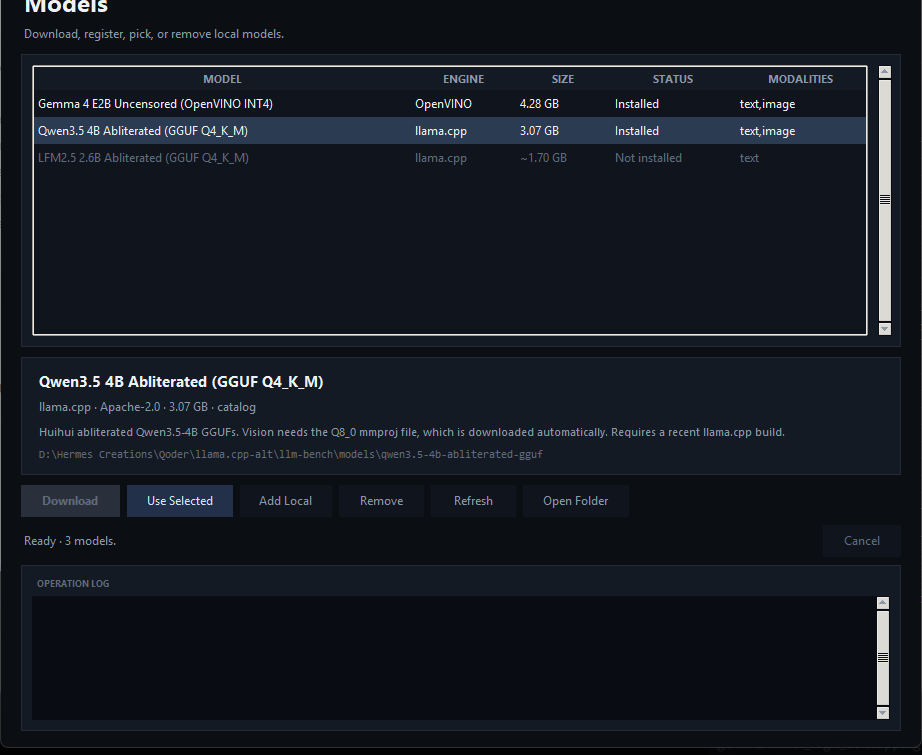
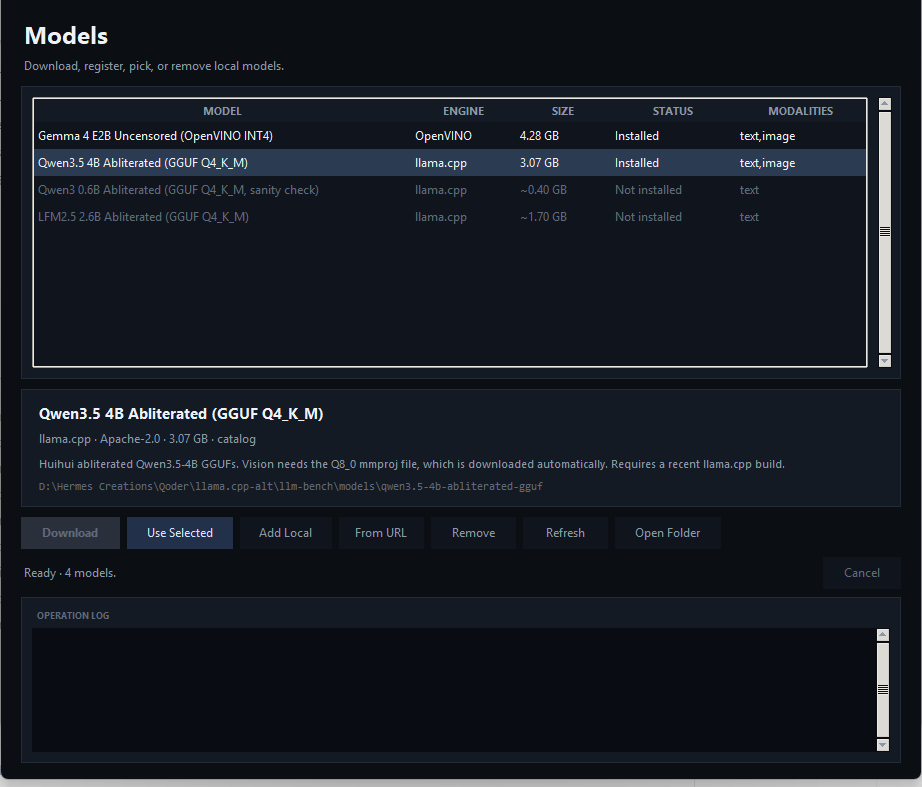
Refresh README for portable installer and current features
Clarify standalone versus project-root launchers, remove the outdated
no-GUI limitation, document auto-tune, URL downloads, image-model scope,
and update the UI screenshots.

diff --git a/README.md b/README.md
@@ -1,8 +1,8 @@
 # LocalForge
 
 LocalForge is a Windows desktop app, CLI, and local OpenAI-compatible API for running
-uncensored/abliterated multimodal models. It uses **OpenVINO GenAI** for Gemma 4 E2B and
-**llama.cpp** for abliterated GGUFs.
+uncensored/abliterated multimodal models. It uses **OpenVINO GenAI** for Gemma 4 E2B,
+**llama.cpp** for abliterated GGUFs, and a validated **LiteRT-LM** adapter.
 
 [Latest release](https://github.com/solletravinder/localforge/releases/latest)
 
@@ -12,14 +12,19 @@ Download the latest **`LocalForge-Setup-*.exe`** from the releases page and run 
 needs no Python installation or terminal, and bundles the Python runtime, dependencies, and
 `llama-server.exe`.
 
-The installer is a per-user installation (no admin prompt) and is about 515 MB compressed; the
+The installer is a per-user installation (no admin prompt) and is about 520 MB compressed; the
 installed runtime is about 1.1 GB. It includes an abliterated **Qwen3 0.6B sanity model** at 8K
 context. It is selected automatically on first launch so you can verify the installation
 immediately. Download Qwen3.5 4B from the Models window for the full 131k profile.
 
+The installer does not bundle the SD1.5 image-generation checkpoint. Image generation remains
+available from a source setup or by converting a checkpoint with `lforge convert-image`.
+
 ## Desktop app
 
-Double-click **`LocalForge.exe`** (or the LocalForge desktop shortcut). No terminal is needed.
+Double-click the installed **LocalForge** shortcut. The installer copy is self-contained and
+needs no project folder, `.venv`, or Python installation. A smaller project-root
+`LocalForge.exe` remains available for development from this repository.
 
 ![LocalForge desktop app](assets/screenshot.png)
 
@@ -40,7 +45,7 @@ suggestions fill the llama.cpp fields for review; per-model context overrides st
 
 - **Generation:** max output tokens, temperature, top-p, and thinking mode.
 - **llama.cpp:** context length, GPU layers, batch, ubatch, CPU threads, parallel slots, flash
-  attention, and warmup.
+  attention, and warmup. **Auto-tune from selected GGUF** fills these from the model metadata.
 - **KV cache:** K and V cache types, with the 131k memory trade-off shown inline.
 
 Settings are validated, saved to the LocalForge config, and take effect after Stop and Start.
@@ -57,9 +62,9 @@ Settings are validated, saved to the LocalForge config, and take effect after St
   provider, with resume support. Hugging Face `/blob/` links are converted to `/resolve/`.
 - Removes downloaded models or unregisters local models without deleting their files.
 
-Keep `LocalForge.exe` inside the `local-forge` folder: it uses the existing `.venv` and model
-directories. In Jan, use base URL `http://127.0.0.1:8090/v1`, model
-`qwen3.5-4b-abliterated`, and context `131000`.
+The smaller project-root launcher must stay inside `local-forge` because it uses the existing
+`.venv` and model directories. The installed copy is standalone. In Jan, use base URL
+`http://127.0.0.1:8090/v1`, model `qwen3.5-4b-abliterated`, and context `131000`.
 
 ### Build the desktop EXE or portable installer
 
@@ -108,7 +113,7 @@ Verified on an i5-12450H, 16 GB RAM, Intel UHD Graphics laptop:
 Streaming is supported everywhere: CLI token streaming and SSE streaming through the API, for
 both OpenVINO and llama.cpp models.
 
-## Requirements
+## Requirements (source install)
 
 - Windows 10/11, Python 3.10+
 - Intel CPU or iGPU supported by OpenVINO 2026.4+
@@ -124,8 +129,8 @@ From this folder:
 run.bat setup
 ```
 
-The first run creates `.venv`, installs dependencies, downloads the two remaining text models, and
-installs the photoreal image model (~9.5 GB total). Downloads resume if interrupted; use
+The first run creates `.venv`, installs dependencies, and downloads any missing catalog chat
+models plus the photoreal image model. Expect several GB; downloads resume if interrupted. Use
 `--text-only` or `--image-only` to split them. Then:
 
 ```bat
@@ -155,9 +160,11 @@ lforge models list
 lforge models download gemma4-e2b-uncensored-ov
 lforge models download qwen3.5-4b-abliterated
 lforge models download lfm2.5-2.6b-abliterated
+lforge models inspect "D:\path\model.gguf"
+lforge models download-url "https://huggingface.co/org/repo/resolve/main/model.gguf" --id my-model
 ```
 
-The two GGUF entries are community abliterated builds. If a Hugging Face repository is
+The GGUF entries are community abliterated builds. If a Hugging Face repository is
 unavailable, download the GGUF manually and register it:
 
 ```powershell
@@ -274,10 +281,13 @@ LocalForge fills missing descriptions automatically.
 
 ## Image generation
 
-An SD1.5 image model is configured and working immediately. **`run.bat setup` upgrades it to
-Realistic Vision V6.0 B1**, a photoreal SD1.5 checkpoint exported to OpenVINO FP16. It has no
+For source installations, an SD1.5 image model is configured by **`run.bat setup`**. It installs
+Realistic Vision V6.0 B1, a photoreal SD1.5 checkpoint exported to OpenVINO FP16. It has no
 built-in content filter and is suitable for portrait and boudoir-style photography. Defaults are
 portrait 512×768, 28 steps, guidance 6.5, with a built-in negative prompt.
+
+The portable installer does not include this image checkpoint; it focuses on the chat runtime and
+the bundled sanity model.
 
 ```powershell
 run.bat image "editorial portrait of an adult, soft window light, 85mm lens, natural skin texture"
@@ -326,19 +336,23 @@ faster interactive session, or raise `llama_cache_v` to `q8_0` for maximum cache
 ## How it works
 
 ```text
+desktop.py             Windows desktop control panel
 src/local_forge/
-  api.py              OpenAI-compatible FastAPI server
-  cli.py              lforge commands and interactive chat
-  config.py           JSON config and paths
-  catalog.py          Uncensored model catalog
-  manager.py          Downloads, local imports, status, deletion
-  hardware.py         CPU/RAM/GPU/OpenVINO/llama.cpp detection
-  schemas.py          OpenAI request parsing and image handling
-  tools.py            Gemma tool-call parser and tool-history conversion
+  api.py               OpenAI-compatible FastAPI server
+  cli.py               lforge commands and interactive chat
+  config.py            JSON config and paths
+  catalog.py           Uncensored model catalog
+  manager.py           Downloads, local imports, status, deletion
+  gguf_info.py         GGUF metadata parsing and hybrid-aware recommendations
+  url_download.py      Direct .gguf/.litertlm URL downloads with resume
+  hardware.py          CPU/RAM/GPU/OpenVINO/llama.cpp detection
+  schemas.py           OpenAI request parsing and image handling
+  tools.py             Gemma tool-call parser and tool-history conversion
   engines/
     openvino_engine.py   VLMPipeline, streaming, vision
     llama_cpp_engine.py  llama-server lifecycle and SSE proxy
     image_engine.py      OpenVINO Text2ImagePipeline
+    litert_engine.py     LiteRT Conversation adapter
     manager.py           One-resident-model policy
 ```
 
@@ -380,9 +394,9 @@ remains the production Jan tool engine; the LiteRT adapter is ready for a future
 
 ## Limitations
 
-
-- No GUI; the interface is CLI + API by design.
-- Image generation requires a converted OpenVINO IR checkpoint; none is bundled.
+- The desktop GUI is Windows-only. The CLI and API remain available for automation.
+- The portable installer does not bundle an image checkpoint; use a source setup or
+  `lforge convert-image` to add one.
 - On 16 GB, run one large model at a time. The OpenVINO chat model now defaults to CPU to avoid
   iGPU shared-memory OOM; stop it before loading the image model on GPU.
 - Tool calling works, but small models can produce imperfect tool arguments. Gemma tool calls are

diff --git a/COMMANDS.md b/COMMANDS.md
@@ -4,8 +4,9 @@
 dependencies, `llama-server.exe`, and the Qwen3 0.6B sanity model. No terminal or Python installation
 is needed.
 
-**Project path:** double-click `LocalForge.exe` or the LocalForge shortcut on the desktop.
-Use the window to start/stop the server, open Jan, open the API docs, and watch logs and RAM.
+**Project path:** the project-root `LocalForge.exe` is a thin launcher and must stay inside
+`local-forge`; it uses that folder's `.venv` and models. Use it from the project folder for
+development. The installer copy is standalone.
 **Models** lists, downloads, picks, registers, and removes models; downloads show progress and can
 be cancelled. **From URL** downloads a direct `.gguf` or `.litertlm` link from Hugging Face,
 ModelScope, or another provider and registers it locally. **Settings** edits generation defaults
@@ -16,14 +17,15 @@ the model metadata. Settings are saved on **Save** and apply after Stop and Star
 status monitor reconnects the window if a server is running outside its current process state, and
 resets the controls if it stops responding. The model is unloaded when the window closes.
 
-Keep `LocalForge.exe` inside the `local-forge` project folder; it uses the existing `.venv` and
-models. Jan connects to `http://127.0.0.1:8090/v1` with model `qwen3.5-4b-abliterated` and
-context `131000`.
+Jan connects to `http://127.0.0.1:8090/v1` with model `qwen3.5-4b-abliterated` and context
+`131000`. The installer includes a Qwen3 0.6B sanity model for a first-run check; the 4B model is
+downloaded from the Models window.
 
 The commands below remain available for advanced work. Run them from this folder.
 
-**Ready now:** uncensored Gemma 4 E2B chat/vision, Qwen3.5-4B chat/vision, and SD1.5 image
-generation. **Remaining:** LFM and the better photoreal image model install with `run.bat setup`.
+**Ready now:** uncensored Gemma 4 E2B chat/vision, Qwen3.5-4B chat/vision, the Qwen3 0.6B
+sanity model, and SD1.5 image generation from a source setup. **Optional:** LFM and the photoreal
+image model install with `run.bat setup`.
 
 ## One-time setup
 
@@ -31,8 +33,8 @@ generation. **Remaining:** LFM and the better photoreal image model install with
 run.bat setup
 ```
 
-Downloads the two remaining text models and the photoreal image model (~9.5 GB total). It resumes
-if interrupted. If bandwidth is limited, use `run.bat setup --text-only` or
+Downloads any missing catalog chat models and the photoreal image model. Expect several GB; it
+resumes if interrupted. If bandwidth is limited, use `run.bat setup --text-only` or
 `run.bat setup --image-only`.
 
 Check everything:
